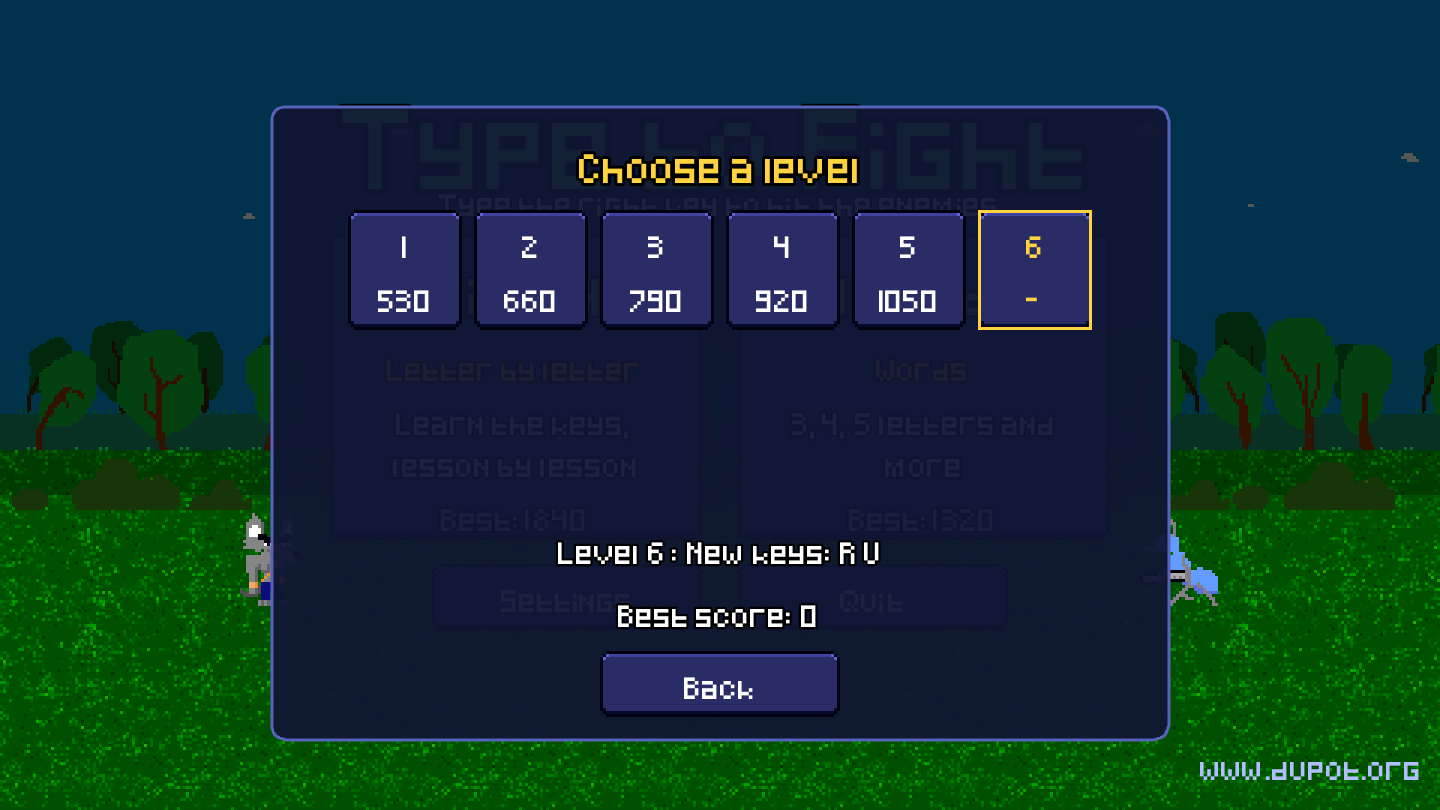
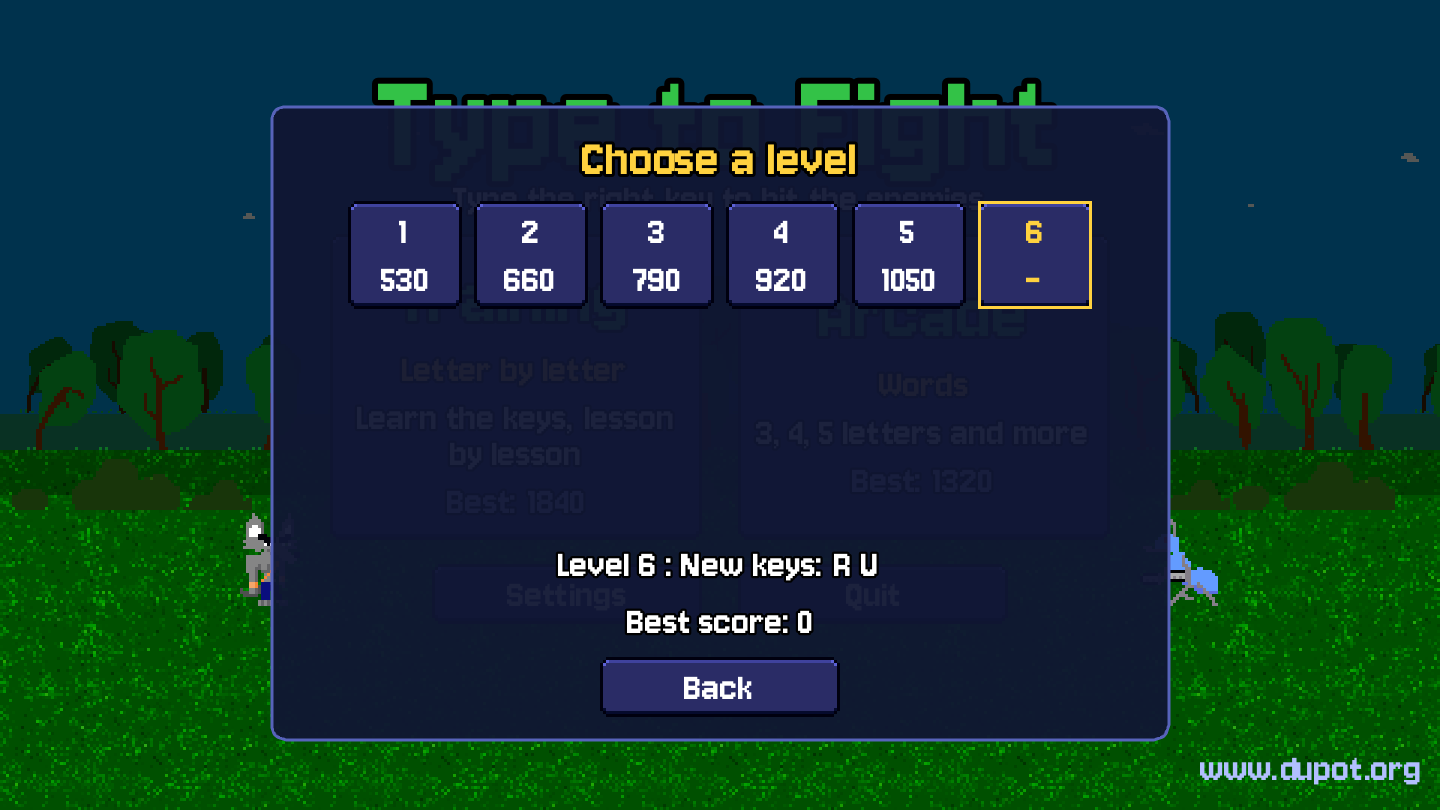
upd content

Changed region(s): [[0.2188, 0.0926, 0.7812, 0.4321], [0.375, 0.6481, 0.625, 0.8642], [0.8125, 0.9259, 1.0, 0.9877]]

diff --git a/docs/app_typeToFight.html b/docs/app_typeToFight.html
@@ -10,7 +10,7 @@
   <link rel="preconnect" href="https://fonts.googleapis.com">
   <link rel="preconnect" href="https://fonts.gstatic.com" crossorigin>
   <link href="https://fonts.googleapis.com/css2?family=Space+Grotesk:wght@500;600;700&family=Inter:wght@400;500;600;700&display=swap" rel="stylesheet">
-  <link rel="stylesheet" href="css/theme.css?v=20261008220438">
+  <link rel="stylesheet" href="css/theme.css?v=20261010061436">
 
   <!-- Google tag (gtag.js) -->
   <script async src="https://www.googletagmanager.com/gtag/js?id=G-ZVG5R211FM"></script>
@@ -144,6 +144,8 @@
 <li>Les erreurs sont expliquées sur un clavier, et les touches mal maîtrisées reviennent plus souvent</li>
 <li>94 % de précision pour débloquer le niveau suivant (réglable), avec des statistiques par touche</li>
 <li>Chaque niveau atteint reste débloqué et rejouable, avec les meilleurs scores pour chaque mode</li>
+<li>Musique chiptune et effets sonores 8-bit pour chaque touche, coup et niveau (désactivables séparément)</li>
+<li>Une police pixel facile à lire : les caractères qui se ressemblent restent distincts (5 et S, 0 et O…) et tous les accents français s'affichent</li>
 <li>Disponible en français et en anglais</li>
 <li>Gratuit, open source, jouable dans le navigateur sur itch.io ; les versions Flathub et Snapcraft arriveront une fois le développement plus avancé</li>
 </ul>

diff --git a/docs/about.html b/docs/about.html
@@ -10,7 +10,7 @@
   <link rel="preconnect" href="https://fonts.googleapis.com">
   <link rel="preconnect" href="https://fonts.gstatic.com" crossorigin>
   <link href="https://fonts.googleapis.com/css2?family=Space+Grotesk:wght@500;600;700&family=Inter:wght@400;500;600;700&display=swap" rel="stylesheet">
-  <link rel="stylesheet" href="css/theme.css?v=20261008220438">
+  <link rel="stylesheet" href="css/theme.css?v=20261010061436">
 
   <!-- Google tag (gtag.js) -->
   <script async src="https://www.googletagmanager.com/gtag/js?id=G-ZVG5R211FM"></script>

diff --git a/docs/app_beatMatchToPass.html b/docs/app_beatMatchToPass.html
@@ -10,7 +10,7 @@
   <link rel="preconnect" href="https://fonts.googleapis.com">
   <link rel="preconnect" href="https://fonts.gstatic.com" crossorigin>
   <link href="https://fonts.googleapis.com/css2?family=Space+Grotesk:wght@500;600;700&family=Inter:wght@400;500;600;700&display=swap" rel="stylesheet">
-  <link rel="stylesheet" href="css/theme.css?v=20261008220438">
+  <link rel="stylesheet" href="css/theme.css?v=20261010061436">
 
   <!-- Google tag (gtag.js) -->
   <script async src="https://www.googletagmanager.com/gtag/js?id=G-ZVG5R211FM"></script>

diff --git a/docs/app_carnetEntrainement.html b/docs/app_carnetEntrainement.html
@@ -10,7 +10,7 @@
   <link rel="preconnect" href="https://fonts.googleapis.com">
   <link rel="preconnect" href="https://fonts.gstatic.com" crossorigin>
   <link href="https://fonts.googleapis.com/css2?family=Space+Grotesk:wght@500;600;700&family=Inter:wght@400;500;600;700&display=swap" rel="stylesheet">
-  <link rel="stylesheet" href="css/theme.css?v=20261008220438">
+  <link rel="stylesheet" href="css/theme.css?v=20261010061436">
 
   <!-- Google tag (gtag.js) -->
   <script async src="https://www.googletagmanager.com/gtag/js?id=G-ZVG5R211FM"></script>

diff --git a/docs/app_dupotDevTools.html b/docs/app_dupotDevTools.html
@@ -10,7 +10,7 @@
   <link rel="preconnect" href="https://fonts.googleapis.com">
   <link rel="preconnect" href="https://fonts.gstatic.com" crossorigin>
   <link href="https://fonts.googleapis.com/css2?family=Space+Grotesk:wght@500;600;700&family=Inter:wght@400;500;600;700&display=swap" rel="stylesheet">
-  <link rel="stylesheet" href="css/theme.css?v=20261008220438">
+  <link rel="stylesheet" href="css/theme.css?v=20261010061436">
 
   <!-- Google tag (gtag.js) -->
   <script async src="https://www.googletagmanager.com/gtag/js?id=G-ZVG5R211FM"></script>

diff --git a/docs/app_dupotEasyFlatpak.html b/docs/app_dupotEasyFlatpak.html
@@ -10,7 +10,7 @@
   <link rel="preconnect" href="https://fonts.googleapis.com">
   <link rel="preconnect" href="https://fonts.gstatic.com" crossorigin>
   <link href="https://fonts.googleapis.com/css2?family=Space+Grotesk:wght@500;600;700&family=Inter:wght@400;500;600;700&display=swap" rel="stylesheet">
-  <link rel="stylesheet" href="css/theme.css?v=20261008220438">
+  <link rel="stylesheet" href="css/theme.css?v=20261010061436">
 
   <!-- Google tag (gtag.js) -->
   <script async src="https://www.googletagmanager.com/gtag/js?id=G-ZVG5R211FM"></script>

diff --git a/docs/app_dupotFileBrowser.html b/docs/app_dupotFileBrowser.html
@@ -10,7 +10,7 @@
   <link rel="preconnect" href="https://fonts.googleapis.com">
   <link rel="preconnect" href="https://fonts.gstatic.com" crossorigin>
   <link href="https://fonts.googleapis.com/css2?family=Space+Grotesk:wght@500;600;700&family=Inter:wght@400;500;600;700&display=swap" rel="stylesheet">
-  <link rel="stylesheet" href="css/theme.css?v=20261008220438">
+  <link rel="stylesheet" href="css/theme.css?v=20261010061436">
 
   <!-- Google tag (gtag.js) -->
   <script async src="https://www.googletagmanager.com/gtag/js?id=G-ZVG5R211FM"></script>

diff --git a/docs/app_dupotStaticGenerationFramework.html b/docs/app_dupotStaticGenerationFramework.html
@@ -10,7 +10,7 @@
   <link rel="preconnect" href="https://fonts.googleapis.com">
   <link rel="preconnect" href="https://fonts.gstatic.com" crossorigin>
   <link href="https://fonts.googleapis.com/css2?family=Space+Grotesk:wght@500;600;700&family=Inter:wght@400;500;600;700&display=swap" rel="stylesheet">
-  <link rel="stylesheet" href="css/theme.css?v=20261008220438">
+  <link rel="stylesheet" href="css/theme.css?v=20261010061436">
 
   <!-- Google tag (gtag.js) -->
   <script async src="https://www.googletagmanager.com/gtag/js?id=G-ZVG5R211FM"></script>

diff --git a/docs/app_dupotStaticManagementFramework.html b/docs/app_dupotStaticManagementFramework.html
@@ -10,7 +10,7 @@
   <link rel="preconnect" href="https://fonts.googleapis.com">
   <link rel="preconnect" href="https://fonts.gstatic.com" crossorigin>
   <link href="https://fonts.googleapis.com/css2?family=Space+Grotesk:wght@500;600;700&family=Inter:wght@400;500;600;700&display=swap" rel="stylesheet">
-  <link rel="stylesheet" href="css/theme.css?v=20261008220438">
+  <link rel="stylesheet" href="css/theme.css?v=20261010061436">
 
   <!-- Google tag (gtag.js) -->
   <script async src="https://www.googletagmanager.com/gtag/js?id=G-ZVG5R211FM"></script>

diff --git a/docs/app_kritaSpritesheetExporter.html b/docs/app_kritaSpritesheetExporter.html
@@ -10,7 +10,7 @@
   <link rel="preconnect" href="https://fonts.googleapis.com">
   <link rel="preconnect" href="https://fonts.gstatic.com" crossorigin>
   <link href="https://fonts.googleapis.com/css2?family=Space+Grotesk:wght@500;600;700&family=Inter:wght@400;500;600;700&display=swap" rel="stylesheet">
-  <link rel="stylesheet" href="css/theme.css?v=20261008220438">
+  <link rel="stylesheet" href="css/theme.css?v=20261010061436">
 
   <!-- Google tag (gtag.js) -->
   <script async src="https://www.googletagmanager.com/gtag/js?id=G-ZVG5R211FM"></script>

diff --git a/docs/app_littleAdventure.html b/docs/app_littleAdventure.html
@@ -10,7 +10,7 @@
   <link rel="preconnect" href="https://fonts.googleapis.com">
   <link rel="preconnect" href="https://fonts.gstatic.com" crossorigin>
   <link href="https://fonts.googleapis.com/css2?family=Space+Grotesk:wght@500;600;700&family=Inter:wght@400;500;600;700&display=swap" rel="stylesheet">
-  <link rel="stylesheet" href="css/theme.css?v=20261008220438">
+  <link rel="stylesheet" href="css/theme.css?v=20261010061436">
 
   <!-- Google tag (gtag.js) -->
   <script async src="https://www.googletagmanager.com/gtag/js?id=G-ZVG5R211FM"></script>

diff --git a/docs/app_saveTheSheep.html b/docs/app_saveTheSheep.html
@@ -10,7 +10,7 @@
   <link rel="preconnect" href="https://fonts.googleapis.com">
   <link rel="preconnect" href="https://fonts.gstatic.com" crossorigin>
   <link href="https://fonts.googleapis.com/css2?family=Space+Grotesk:wght@500;600;700&family=Inter:wght@400;500;600;700&display=swap" rel="stylesheet">
-  <link rel="stylesheet" href="css/theme.css?v=20261008220438">
+  <link rel="stylesheet" href="css/theme.css?v=20261010061436">
 
   <!-- Google tag (gtag.js) -->
   <script async src="https://www.googletagmanager.com/gtag/js?id=G-ZVG5R211FM"></script>
